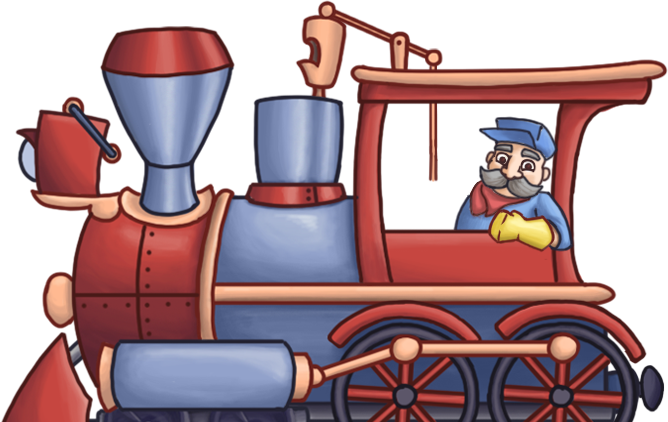
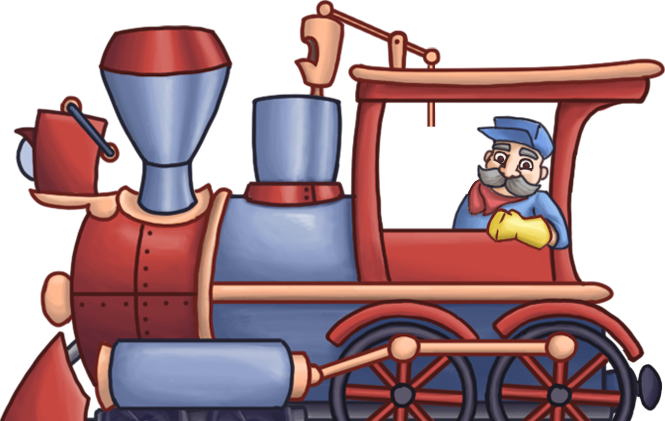
Preintermission animation; small refactoring

diff --git a/ts/Objects/Train/Wagons/Locomotive.ts b/ts/Objects/Train/Wagons/Locomotive.ts
@@ -6,6 +6,8 @@
 
         private machinistArmImg: Phaser.Image;
         private dialogGraphic: Phaser.Image;
+        private hornTween: Phaser.Tween;
+        private hornNormal: number;
 
         /**
          * @param game The active game instance to be added to.
@@ -20,27 +22,47 @@
             this.dialogGraphic = this.game.add.image(0, 0, Images.DialogCloud);
             this.dialogGraphic.anchor.set(1, 0);
 
-            this.addChild(this.machinistArmImg);
-            this.addChild(this.dialogGraphic);  // Currently disabled, waiting for new Dialog graphic
+            this.add(this.machinistArmImg, false, 0);
+            this.addChild(this.dialogGraphic);
+
+            this.hornNormal = 0;
 
             this.resize();
         }
 
         public resize(): void {
-            this.machinistArmImg.x = this.width * 0.672;
-            this.machinistArmImg.y = -(this.height * 0.58);
-            this.dialogGraphic.x = this.width * 0.775;
-            this.dialogGraphic.y = -(this.height * 0.58);
+            super.resize();
+            this.machinistArmImg.x = this.wagonImage.width * 0.6698;
+            this.hornAnim = this.hornAnim;
+            this.machinistArmImg.scale.setTo(this.wagonImage.scale.x);
+            this.dialogGraphic.x = this.wagonImage.width * 0.775;
+            this.dialogGraphic.y = -this.wagonImage.height * 0.58;
         }
 
-        private timer: Phaser.Timer;
+        private horn(): void {
+            if (this.hornTween && this.hornTween.isRunning) {
+                this.hornTween.stop();
+            }
+            this.hornAnim = 0;
+            this.hornTween = this.game.add.tween(this).to({ hornAnim: 1 }, 300, Phaser.Easing.Quadratic.InOut, true, 0, 1, true);
+            this.hornTween.onComplete.addOnce(this.onHornComplete, this);
+        }
+
+        private onHornComplete(): void {
+            this.objectiveDone.dispatch(this);
+        }
 
         private onMoveInDone(): void {
-            // Show IP, etc
-            this.timer = new Phaser.Timer(this.game, true);
-            this.timer.onComplete.addOnce(() => {
-                this.objectiveDone.dispatch(this);
-            });
+            this.horn();
+        }
+
+        private get hornAnim(): number {
+            return this.hornNormal;
+        }
+
+        private set hornAnim(value: number) {
+            this.hornNormal = value;
+            this.machinistArmImg.y = -this.wagonImage.height * (0.59 - 0.05 * value);
         }
 
         /**

diff --git a/ts/Objects/Train/Wagons/CargoWagon.ts b/ts/Objects/Train/Wagons/CargoWagon.ts
@@ -17,14 +17,14 @@
             super(game, Images.Wagon);
 
             this.cargoIndicator = new CargoIndicator(this.game);
-            this.wagonDoors = new WagonDoors(this.game, this);
+            this.wagonDoors = new WagonDoors(this.game);
             this.glow = this.game.add.image(0, 0, Images.WagonGlow);
             this.glowTween = null;
             this.glow.anchor.set(0.5, 1);
 
-            this.addChild(this.cargoIndicator);
-            this.addChild(this.glow);
-            this.addChild(this.wagonDoors);
+            this.add(this.cargoIndicator);
+            this.add(this.glow);
+            this.add(this.wagonDoors);
 
             this.cargoIndicator.wagonFilled.add(this.onWagonFilled, this);
             this.moveInDone.add(this.movedIn, this);
@@ -91,13 +91,13 @@
          */
         public resize(): void {
             super.resize();
-            this.cargoIndicator.resize();
-            this.wagonDoors.resize();
+            this.cargoIndicator.resize(this.wagonImage.width, this.wagonImage.height);
+            this.wagonDoors.resize(this.wagonImage.width, this.wagonImage.height);
 
-            this.glow.height = this.height * 0.49 / this.scale.y;
+            this.glow.height = this.wagonImage.height * 0.49;
             this.glow.scale.x = this.glow.scale.y;
-            this.glow.x = this.width * 0.489 / this.scale.x;
-            this.glow.y = -this.height * 0.1 / this.scale.y;
+            this.glow.x = this.wagonImage.width * 0.489;
+            this.glow.y = -this.wagonImage.height * 0.1;
         }
 
         /**

diff --git a/ts/Objects/Train/WagonDoors.ts b/ts/Objects/Train/WagonDoors.ts
@@ -8,11 +8,9 @@
         private openNormal: number;
         private leftDoor: Phaser.Image;
         private rightDoor: Phaser.Image;
-        private wagon: Wagon;
 
-        constructor(game: Phaser.Game, wagon: Wagon) {
+        constructor(game: Phaser.Game) {
             super(game);
-            this.wagon = wagon;
             this.openNormal = 0;
             this.closed = new Phaser.Signal();
             this.leftDoor = this.game.add.image(0, 0, Images.LeftDoor, null, this);
@@ -50,10 +48,10 @@
         /**
          * Resizes the doors relative to the wagon width, height and scale.
          */
-        public resize(): void {
-            this.x = this.wagon.width * 0.492 / this.wagon.scale.x;
-            this.y = this.wagon.height * -0.1 / this.wagon.scale.y;
-            this.leftDoor.height = this.wagon.height * 0.5 / this.wagon.scale.y;
+        public resize(wagonWidth: number, wagonHeight: number): void {
+            this.x = wagonWidth * 0.492;
+            this.y = wagonHeight * -0.1;
+            this.leftDoor.height = wagonHeight * 0.5;
             this.leftDoor.scale.x = this.leftDoor.scale.y;
             this.openAnim = this.openNormal;
         }
@@ -64,7 +62,7 @@
 
         private set openAnim(value: number) {
             this.openNormal = value;
-            this.rightDoor.x = this.wagon.width * 0.1 * value / this.wagon.scale.x;
+            this.rightDoor.x = this.leftDoor.width * 0.8 * value;
             this.leftDoor.x = -this.rightDoor.x;
         }
     }

diff --git a/ts/Objects/Train/Wagons/Wagon.ts b/ts/Objects/Train/Wagons/Wagon.ts
@@ -2,11 +2,12 @@
     /**
      * The base class of all wagons.
      */
-    export class Wagon extends Phaser.Image {
+    export class Wagon extends Phaser.Group {
 
         public moveInDone: Phaser.Signal;
         public moveOutDone: Phaser.Signal;
         public objectiveDone: Phaser.Signal;
+        protected wagonImage: Phaser.Image;
         private moveTween: Phaser.Tween;
         private moveNormal: number;
 
@@ -14,8 +15,9 @@
          * @param game The active game instance to be added to.
          */
         constructor(game: Phaser.Game, image: string) {
-            super(game, 0, 0, image);
-            this.anchor.setTo(0, 1);
+            super(game);
+            this.wagonImage = this.game.add.image(0, 0, image, null, this);
+            this.wagonImage.anchor.setTo(0, 1);
             this.moveTween = null;
             this.moveAnim = 1;
             this.moveInDone = new Phaser.Signal();
@@ -27,8 +29,8 @@
          * Resizes all elements in this object.
          */
         public resize(): void {
-            this.width = this.game.width;
-            this.scale.y = this.scale.x;
+            this.wagonImage.width = this.game.width;
+            this.wagonImage.scale.y = this.wagonImage.scale.x;
             if (this.moveTween === null || this.moveTween.isRunning) {
                 this.moveAnim = this.moveNormal;
             }

diff --git a/ts/Objects/Train/CargoIndicator/CargoIndicator.ts b/ts/Objects/Train/CargoIndicator/CargoIndicator.ts
@@ -75,9 +75,7 @@
         /**
          * Resizes all elements in this object.
          */
-        public resize(): void {
-            let wagonWidth: number = this.parent.width / this.parent.scale.x,
-                wagonHeight: number = this.parent.height / this.parent.scale.y;
+        public resize(wagonWidth: number, wagonHeight: number): void {
             this.x = wagonWidth * 0.5;
             this.y = wagonHeight * -0.825;
             this.background.width = wagonWidth * 0.6;
